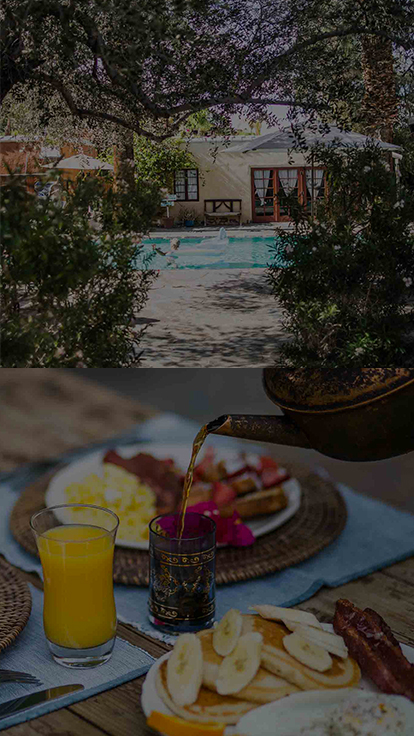
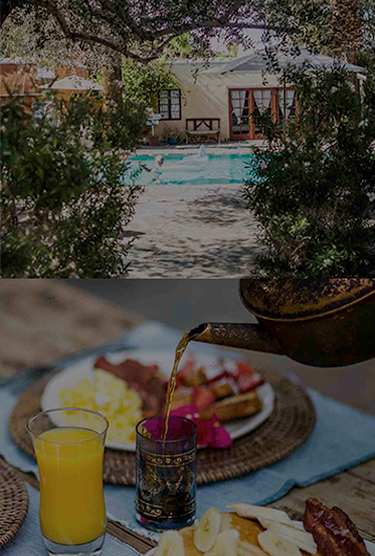
responsive bg image + fix villa landing mobile

diff --git a/app/assets/styles/main.css b/app/assets/styles/main.css
@@ -548,6 +548,7 @@ html {
 
 body {
   position: relative;
+  background-color: white;
 }
 
 img {
@@ -1147,6 +1148,11 @@ body.about .landing {
     background-size: cover;
   }
 }
+@media screen and (max-width: 480px) {
+  body.about .landing {
+    background: white url("../images/landing/about-landing-mobile.jpg") no-repeat center center fixed;
+  }
+}
 body.villas .landing {
   background: white url("../images/landing/villas-landing-desktop.jpg") no-repeat center center fixed;
   background-size: cover;
@@ -1172,6 +1178,11 @@ body.services .landing {
     background-size: cover;
   }
 }
+@media screen and (max-width: 480px) {
+  body.services .landing {
+    background: white url("../images/landing/services-landing-mobile.jpg") no-repeat center center fixed;
+  }
+}
 body.special-occasions .landing {
   background: white url("../images/landing/special-occasions-landing.jpg") no-repeat center center fixed;
   background-size: cover;
@@ -1182,6 +1193,11 @@ body.special-occasions .landing {
     background-size: cover;
   }
 }
+@media screen and (max-width: 480px) {
+  body.special-occasions .landing {
+    background: white url("../images/landing/special-occasions-landing-mobile.jpg") no-repeat center center fixed;
+  }
+}
 body.press .landing {
   background: white url("../images/landing/news-landing.jpg") no-repeat center center fixed;
   background-size: cover;
@@ -1190,6 +1206,11 @@ body.press .landing {
   body.press .landing {
     background: white url("../images/landing/news-landing@2x.jpg") no-repeat center center fixed;
     background-size: cover;
+  }
+}
+@media screen and (max-width: 480px) {
+  body.press .landing {
+    background: white url("../images/landing/news-landing-mobile.jpg") no-repeat center center fixed;
   }
 }
 .landing .wrapper {
@@ -1221,6 +1242,11 @@ body.press .landing {
     margin: 0;
   }
 }
+@media screen and (max-width: 480px) {
+  .landing .wrapper {
+    transform: translateZ(0);
+  }
+}
 .landing .scrolldown {
   font-size: 14px;
   line-height: 100px;
@@ -1236,7 +1262,19 @@ body.press .landing {
   bottom: 0;
   z-index: 9;
 }
+@media screen and (max-width: 480px) {
+  .landing .scrolldown {
+    transform: translateZ(0);
+  }
+}
 
+@media screen and (max-width: 480px) {
+  .villas:not(.feed) .landing {
+    margin-top: 11.1rem;
+    height: calc(100vh - 11.1rem);
+    background-position: center 11.1rem;
+  }
+}
 .villas:not(.feed) .landing > img {
   max-width: 100%;
   min-height: 100vh;
@@ -1270,13 +1308,8 @@ body.press .landing {
 }
 @media screen and (max-width: 480px) {
   .villas:not(.feed) .landing .half .wrapper {
-    top: 50%;
+    top: 30%;
     width: 100%;
-  }
-}
-@media screen and (max-width: 480px) {
-  .villas:not(.feed) .landing .half:first-child .wrapper {
-    top: 70%;
   }
 }
 .villas:not(.feed) .landing .half img {
@@ -1307,8 +1340,8 @@ body.press .landing {
 }
 @media screen and (max-width: 480px) {
   .villas:not(.feed) .landing .half {
-    min-height: 50vh;
-    height: 50vh;
+    min-height: 50%;
+    height: 50%;
     width: 100vw;
   }
   .villas:not(.feed) .landing .half h2, .villas:not(.feed) .landing .half p {

diff --git a/app/assets/sass/_modules/_landing.scss b/app/assets/sass/_modules/_landing.scss
@@ -11,6 +11,9 @@
       background: white url('../images/landing/about-landing@2x.jpg') no-repeat center center fixed;
       background-size: cover;
     }
+    @include media($mobile) {
+      background: white url('../images/landing/about-landing-mobile.jpg') no-repeat center center fixed;
+    }
   }
   body.villas & {
     background: white url('../images/landing/villas-landing-desktop.jpg') no-repeat center center fixed;
@@ -32,6 +35,9 @@
       background: white url('../images/landing/services-landing@2x.jpg') no-repeat center center fixed;
       background-size: cover;
     }
+    @include media($mobile) {
+      background: white url('../images/landing/services-landing-mobile.jpg') no-repeat center center fixed;
+    }
   }
   body.special-occasions & {
     background: white url('../images/landing/special-occasions-landing.jpg') no-repeat center center fixed;
@@ -41,6 +47,9 @@
       background: white url('../images/landing/special-occasions-landing@2x.jpg') no-repeat center center fixed;
       background-size: cover;
     }
+    @include media($mobile) {
+      background: white url('../images/landing/special-occasions-landing-mobile.jpg') no-repeat center center fixed;
+    }
   }
   body.press & {
     background: white url('../images/landing/news-landing.jpg') no-repeat center center fixed;
@@ -49,6 +58,9 @@
     (min-resolution: 192dpi) {
       background: white url('../images/landing/news-landing@2x.jpg') no-repeat center center fixed;
       background-size: cover;
+    }
+    @include media($mobile) {
+      background: white url('../images/landing/news-landing-mobile.jpg') no-repeat center center fixed;
     }
   }
 
@@ -74,6 +86,9 @@
         margin: 0;
       }
     }
+    @include media($mobile) {
+      @include transform(translateZ(0));
+    }
   }
   .scrolldown {
     @include font(1.4, 10);
@@ -87,9 +102,17 @@
     position: $position;
     bottom:0;
     z-index: 9;
+    @include media($mobile) {
+      @include transform(translateZ(0));
+    }
   }
 }
 .villas:not(.feed) .landing {
+  @include media($mobile) {
+    margin-top: 11.1rem;
+    height: calc(100vh - 11.1rem);
+    background-position: center 11.1rem;
+  }
   > img {
     max-width: 100%;
     min-height: 100vh;
@@ -119,17 +142,17 @@
     .wrapper {
       width: 100%;
       @include media($mobile) {
-        top: 50%;
+        top: 30%;
         width: 100%;
       }
     }
-    &:first-child {
-      .wrapper {
-        @include media($mobile) {
-          top: 70%;
-        }
-      }
-    }
+    // &:first-child {
+    //   .wrapper {
+    //     @include media($mobile) {
+    //       top: 70%;
+    //     }
+    //   }
+    // }
     img {
       width: 50%;
       position: fixed;
@@ -156,8 +179,8 @@
     }
 
     @include media($mobile) {
-      min-height: 50vh;
-      height: 50vh;
+      min-height: 50%;
+      height: 50%;
       width: 100vw;
       h2, p {
         opacity: 1 !important;

diff --git a/app/assets/sass/_base/_base.scss b/app/assets/sass/_base/_base.scss
@@ -11,6 +11,7 @@ html {
 
 body {
   position: relative;
+  background-color: white;
 }
 img {
   max-width: 100%;
